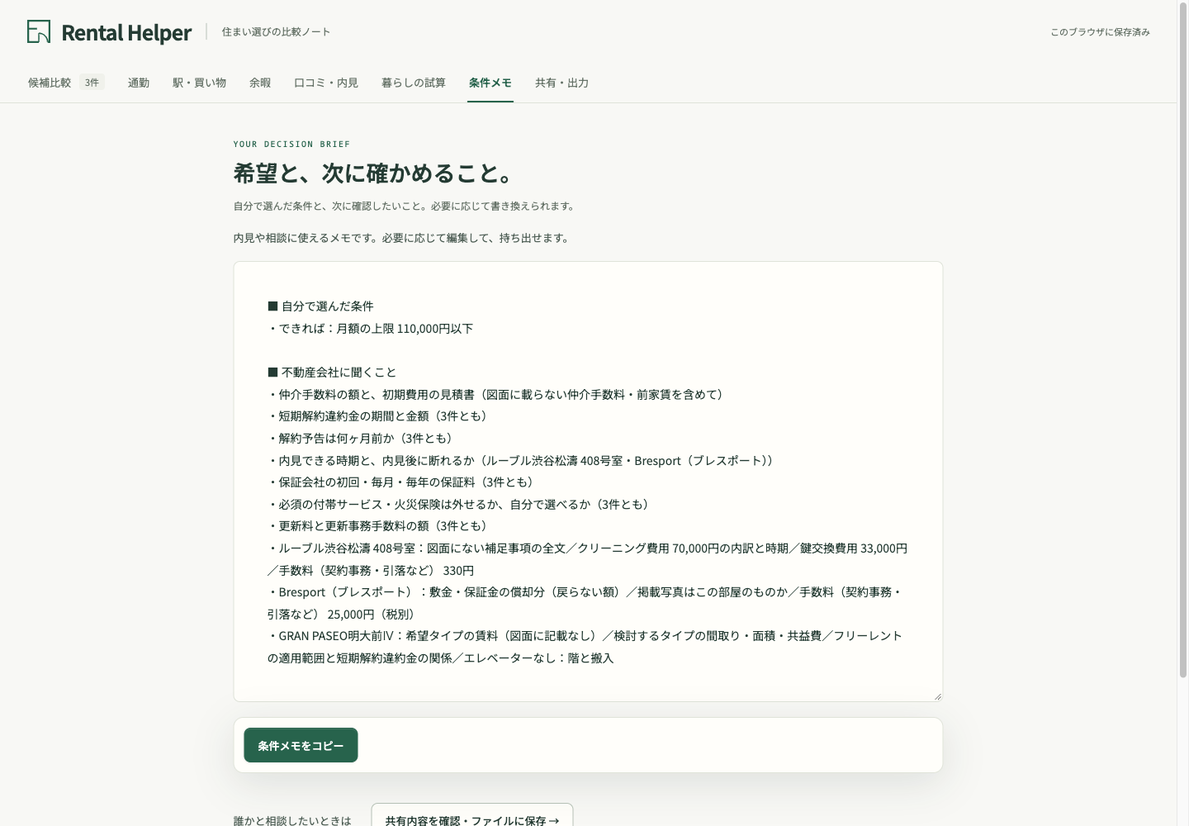
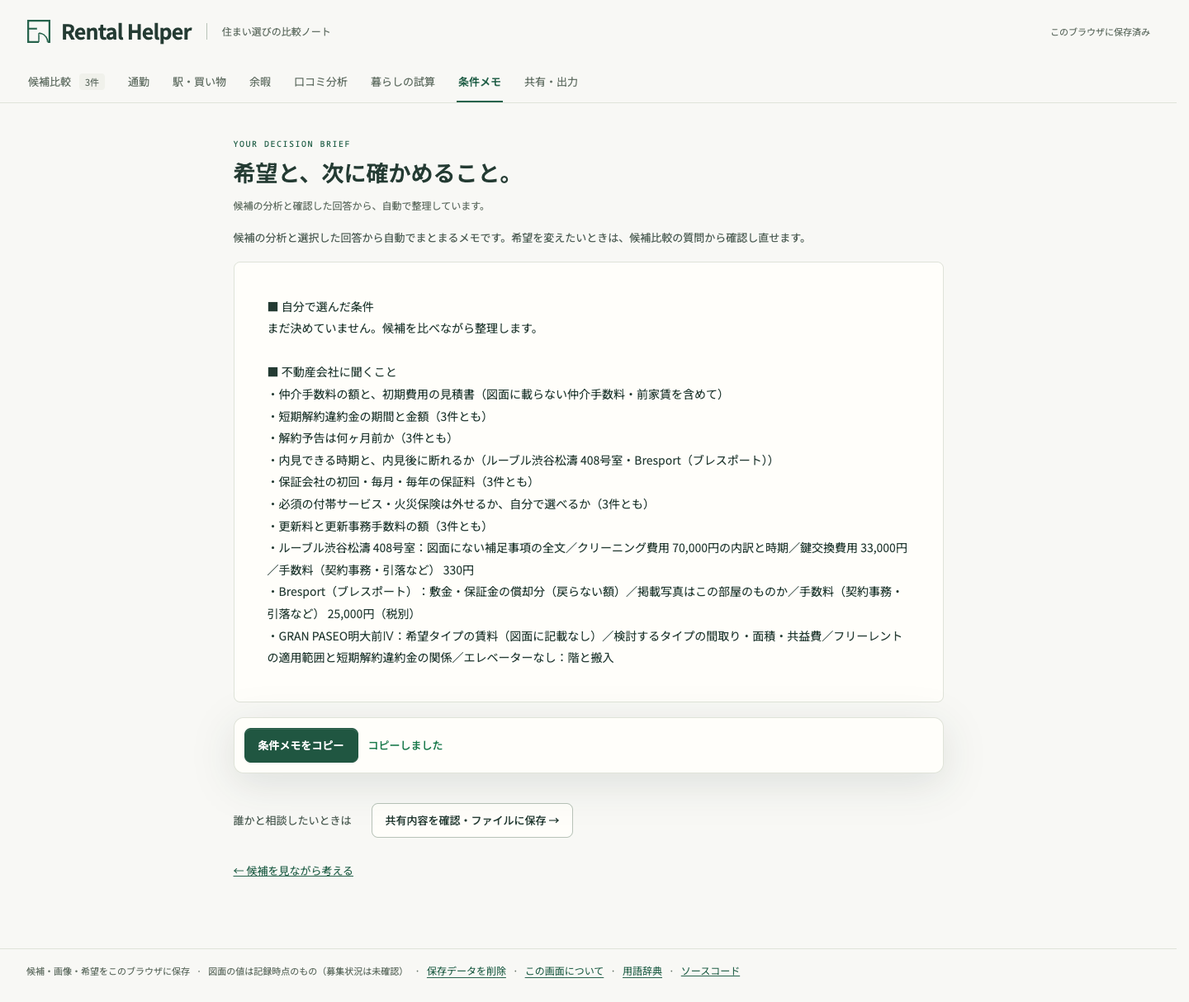
docs(product): align review fallback and choice-based analysis workflow

diff --git a/PRODUCT.md b/PRODUCT.md
@@ -6,7 +6,7 @@ Updated **2026-09-22**. This document separates the implemented local prototype 
 
 Help tenants compare homes they already found, understand the evidence behind their differences, and discover what matters through an interactive conversation. A successful session ends with confirmed priorities, visible compromises, and useful questions for a viewing or agent.
 
-The tenant supplies candidates first. Do not start with a free-text “暮らしの希望” form or a requirements questionnaire. Similarities among candidates are hypotheses, not proof of a preference. OCR supports entry; examining OCR output is not the main experience.
+The tenant supplies candidates first. The app analyzes them and offers grounded choices; it has no personal viewing diary, free-text requirement form, or manually editable decision brief. Do not start with a free-text “暮らしの希望” form or a requirements questionnaire. Similarities among candidates are hypotheses, not proof of a preference. OCR supports entry; examining OCR output is not the main experience.
 
 ## Current progress
 
@@ -25,9 +25,9 @@ The tenant supplies candidates first. Do not start with a free-text “暮らし
 | Commute | Confirm a destination, choose Japan-time arrival/departure, mode and frequency; compare returned alternatives by duration, transfers or walking; confirm intent. | Live Tokyo TRANSIT check returned no routes. Maps fallback is available; Japan transit coverage remains unresolved. |
 | Leisure | Parks/gyms/cafés, dated WALK observations, named regular destination, frequency/importance confirmation. | Max 2/category within 1.5 km by straight-line distance; not exhaustive. Hours and activity suitability require verification. |
 | Scenarios | Change weekly frequency; compare known monthly cost, selected commute objective, outbound-time estimates and accepted leisure interests. | No hidden total score; no invented return journey, fares or data for missing routes. |
-| Reviews | Automatically search public apartment-review sites/posts on entering the review page or changing candidate. Show cited AI summaries, matched building/address, unit scope, excluded sources, viewing questions and separate personal notes. | Public retrieval is not exhaustive; summaries do not prove residency or current conditions. Live GRAN PASEO request returned Gemini busy; successful live review retrieval remains open. |
-| Takeaway/sharing | Editable/copyable memo, HTML download, content preview, optional personal details, 1–7 day SQLite-backed links and owner revocation. | Shared links require a reachable API. Images/eligible chat are local HTML only; provider routes and review text are excluded. Single-instance storage; no accounts. |
-| Persistence | IndexedDB saves candidates, image blobs, answers, preferences, memo edits and eligible conversation history; deletion control included. | Local to browser/origin. Maps observations and conversations reproducing them are temporary; accepted preferences persist. |
+| Reviews | Automatically search public apartment-review sites/posts on entering the review page or changing candidate. Show cited AI summaries, matched building/address, unit scope and explicit nearby references. | Public retrieval is not exhaustive; summaries do not prove residency or current conditions. Live GRAN PASEO request returned Gemini busy; successful live review retrieval remains open. |
+| Takeaway/sharing | Automatically generated, read-only/copyable memo, HTML download, content preview, optional personal details, 1–7 day SQLite-backed links and owner revocation. | Shared links require a reachable API. Images/eligible chat are local HTML only; provider routes and review text are excluded. Single-instance storage; no accounts. |
+| Persistence | IndexedDB saves candidates, image blobs, answers, preferences, eligible conversation history; deletion control included. | Local to browser/origin. Maps observations and conversations reproducing them are temporary; accepted preferences persist. |
 | UI | Eight feature tabs (mobile grouped dropdown), dedicated feature pages with candidate scope and instructions; five comparison concerns, adjacent numeric/AI questions, confirmed-priority pills, and separate memo/sharing views. Mobile pair selection and a question panel; keyboard navigation and reduced motion. | Repository screenshots show the recorded candidate workflow; live services require a configured backend. |
 
 ## Interaction contract
@@ -36,13 +36,13 @@ The tenant supplies candidates first. Do not start with a free-text “暮らし
 2. **Understand differences.** Compare costs, space, access, equipment and contracts. Open a value for its source or calculation.
 3. **Explore one question.** AI uses available evidence; the numeric fallback works without AI. Offer deferral and contextual follow-up.
 4. **Confirm a priority.** A tentative selection or AI proposal is not a requirement. Confirmation updates the comparison and memo; the tenant can reconsider.
-5. **Take the next step.** Leave with an editable brief and questions that would change the decision. Preserve the session locally.
+5. **Take the next step.** Leave with a generated brief and questions that would change the decision. Preserve the session locally.
 
 Work-destination and leisure questions follow candidate comparison. A workplace cannot be inferred from a listing: request the destination when the tenant chooses to examine commuting. Ask for a place/address and relevant schedule, not an upfront lifestyle essay.
 
 ### Workspace behavior
 
-- Top navigation exposes comparison, commute, essentials, leisure, reviews/viewings, scenarios, memo and sharing. The phone dropdown lists all eight pages, grouped by task. Primary feature forms are immediately visible, without an extra disclosure.
+- Top navigation exposes comparison, commute, essentials, leisure, review analysis, scenarios, memo and sharing. The phone dropdown lists all eight pages, grouped by task. Primary feature forms are immediately visible, without an extra disclosure.
 - Hash links, browser Back/Forward and keyboard tab navigation select the same page. Legacy feature anchors resolve to the corresponding page. View changes hide/show existing DOM; they do not remount modules or discard in-memory results. Reload still clears temporary provider data.
 - Candidate scope is shown on feature pages. Essentials checks cover the entire shortlist, including on mobile; the two-candidate selector is local to the comparison table.
 
@@ -85,11 +85,13 @@ Nearby search covers stations, supermarkets and convenience stores within 1.5 km
 
 `POST /api/advise` receives candidate evidence, available Maps observations, confirmed priorities and conversation answers. Insights/questions reference evidence IDs. Proposals require a literal quote from a user answer and explicit acceptance. Failed answers remain available for retry; changed evidence invalidates previous AI output.
 
-Opening **口コミ・内見** or selecting another candidate automatically searches public web reviews using the building name, address, room and source link. It does not send images or personal notes. A bounded 30-minute session cache avoids repeat calls during navigation; manual refresh is available. Errors also wait for explicit retry or cache expiry, rather than triggering an automatic retry loop.
+Opening **口コミ分析** or selecting another candidate automatically searches public web reviews using the building name, address, room and source link. It does not send images or personal notes. A bounded 30-minute session cache avoids repeat calls during navigation; manual refresh is available. Errors also wait for explicit retry or cache expiry, rather than triggering an automatic retry loop.
 
-Only provider-cited text supports the returned summaries. Name/address must match within evidence attributed to the same source. Same-unit, building-level and other-unit reports stay distinct; advertisements, neighborhood information and inaccessible or unmatched pages are excluded from the review list. Results label AI summaries, unknown posting dates and source links. Retrieval dates are not posting dates. Search/identity checks reduce wrong attachments but are not proof of a source's accuracy or an exhaustive crawl. Missing-address candidates cannot receive matched reviews until their identity is established.
+Search order is enforced in code: exact room (when known) → same building → at most three other residential buildings within 300 m, located and distance-checked with Maps. Stop at the first tier with usable reviews. Nearby opinions identify their actual building/address and straight-line distance, and never establish conditions in the target home. A successful empty search leaves the review area blank; provider failures remain errors.
 
-Commute/leisure/review provider content remains in memory. Confirmed intentions and the tenant's own viewing notes persist; a changed candidate identity/address invalidates observations. Web review summaries and source links are temporary and never sent to the advisor or saved in a share. Only generic viewing questions explicitly accepted by the tenant persist.
+Only provider-cited text supports the returned summaries. Name/address must match within evidence attributed to the same source. Same-unit, building-level and other-unit reports stay distinct; advertisements, general neighborhood claims and inaccessible or unmatched pages are excluded from the review list. Results label AI summaries, unknown posting dates and source links. Retrieval dates are not posting dates. Search/identity checks reduce wrong attachments but are not proof of a source's accuracy or an exhaustive crawl. Missing-address candidates cannot receive matched reviews until their identity is established.
+
+Commute/leisure/review provider content remains in memory. Confirmed intentions persist; a changed candidate identity/address invalidates observations. Web review summaries and source links are temporary and never sent to the advisor or saved in a share. Only generic viewing questions explicitly accepted by the tenant persist.
 
 Sharing stores only an allowlisted brief, source links, confirmed intentions and explicitly included personal fields. Read/delete tokens are hashed; expiry is enforced on reads and expired rows are cleaned during access. A separate owner secret authorizes revocation. Links grant access to anyone who possesses them; downloaded copies cannot be revoked.
 
@@ -97,7 +99,7 @@ IndexedDB stores user work. Uploaded images may be saved locally; server-side ex
 
 ## Validation and release state
 
-- **2026-09-22:** `npm test` — 101 frontend + 115 backend tests passed; 2 real-OCR tests skipped. Covers calculations, uncertainty, matching, automatic research, stale-response rejection, proposals, provider errors and storage boundaries.
+- **2026-09-22:** `npm test` — 103 frontend + 126 backend tests passed; 2 real-OCR tests skipped. Covers calculations, uncertainty, matching, automatic research, stale-response rejection, proposals, provider errors and storage boundaries.
 - Browser checks cover desktop/mobile flows, keyboard tabs, mobile pair swapping, question panel focus/resize, contextual AI requests and stale-response rejection with provider stubs, explicit confirmation, memo/image restoration, reference-price details, automatic exact-unit filling with a stubbed provider, and no duplicate lookup after reload.
 - Earlier local live checks confirmed Geocoding, Places and WALK Routes access. A small Gemini request succeeded; full candidate conversations and the latest automatic research check encountered provider busy responses. Full live end-to-end quality remains an open release task.
 - Pages hosts the static app; online research, routes, reviews, advice and shared links need a separately configured API. See the dated [validation record](docs/VALIDATION.md) for actual provider outcomes and the [code tour](docs/CODE_TOUR.md) for module boundaries.

diff --git a/docs/VALIDATION.md b/docs/VALIDATION.md
@@ -4,9 +4,9 @@ This log distinguishes implemented behavior, deterministic checks, and actual pr
 
 | Check | Evidence/result | Interpretation |
 | --- | --- | --- |
-| `npm test` | 101 frontend + 115 backend passed; 2 optional real-OCR tests skipped | Logic and provider contracts pass with stubs; not a model accuracy benchmark. |
-| Browser workflow | Desktop/mobile, destination confirmation, partial commute failure, leisure confirmation, scenario frequency, review-to-question, personal observation, memo, private-share defaults and HTML download | Google/Gemini responses stubbed; no synthetic results are shipped as live observations. |
-| UI polish checks | `npm run smoke:ui` passed: keyboard/focus, Escape/outside dismissal, interrupted native dialogs, reduced motion, open/closed sheet resizing, 320/390/760 px touch layouts, 16 px form inputs, dark mode. `npm run smoke:browser` and 101 frontend tests passed again after UI changes. | Chromium and touch emulation; real phone keyboard/safe-area/gesture checks remain open. [Design decisions](UI_DESIGN.md). |
+| `npm test` | 103 frontend + 126 backend passed; 2 optional real-OCR tests skipped | Logic and provider contracts pass with stubs; not a model accuracy benchmark. |
+| Browser workflow | Desktop/mobile, destination confirmation, partial commute failure, leisure confirmation, scenario frequency, review-to-question, nearby/empty review states, generated memo, share defaults and HTML download | Google/Gemini responses stubbed; no synthetic results are shipped as live observations. |
+| UI polish checks | `npm run smoke:ui` passed: keyboard/focus, Escape/outside dismissal, interrupted native dialogs, reduced motion, open/closed sheet resizing, 320/390/760 px touch layouts, 16 px form inputs, dark mode. `npm run smoke:browser` and 103 frontend tests passed again after UI changes. | Chromium and touch emulation; real phone keyboard/safe-area/gesture checks remain open. [Design decisions](UI_DESIGN.md). |
 | Feature navigation | All eight pages reachable from desktop tabs/mobile dropdown; Back/Forward retains drafts; reload and old deep links select the right page; all pages fit 320/390/760 px. Full stubbed-provider/share workflow passes through the new tabs. | Navigation retains mounted feature instances; it does not revalidate live provider coverage. |
 | Compose configuration | `docker compose ... config --quiet` passed; local Docker daemon was unavailable | API image build is left to CI; no local image-build claim. |
 | GitHub CI for the feature release | [Run 35641505498](https://github.com/SodaShikenn/rental-helper/actions/runs/35641505498) passed frontend, backend and Docker build/Compose jobs | The image built on GitHub; the public API has not been deployed. |
@@ -15,7 +15,8 @@ This log distinguishes implemented behavior, deterministic checks, and actual pr
 | Live Tokyo transit | Public address 東京都渋谷区神南1丁目19-11 → 新宿駅, next-day schedule: **no routes returned** | Transit coverage is unresolved. The UI reports this and links to Maps; it does not substitute walking-to-station or invented routes. |
 | Live leisure | Same public origin, park category: 2 places, 2 walking routes returned | This Places/WALK slice succeeded. It does not establish exhaustive coverage or suitability for running. |
 | Live building review matching | ルーブル渋谷松濤 408号室 / 東京都渋谷区富ヶ谷2丁目20-18: **no confirmed matching place** | Correctly refused to attach another entity's reviews. Live review display for a matched building remains to be validated. |
-| Automatic web reviews | `POST /api/reviews/web` for GRAN PASEO明大前Ⅳ / 東京都世田谷区羽根木2-28-19 returned HTTP 503 `upstream_busy` in 2.5 s | Search failed; no review or empty-success result was fabricated. Successful live retrieval is still unverified. |
+| Automatic web reviews | `POST /api/reviews/web` for GRAN PASEO明大前Ⅳ / 東京都世田谷区羽根木2-28-19 returned HTTP 503 `upstream_busy` in 2.8 s | Search failed; no review or empty-success result was fabricated. Successful live retrieval is still unverified. |
+| Live nearby-reference discovery | GRAN PASEO明大前Ⅳ: Maps returned グランデュール羽根木 (15 m), ライフステージ羽根木 (21 m), アンプリール (21 m) | Straight-line residential reference discovery succeeded; this does not validate their web-review content. |
 | Earlier live Maps | Geocoding, nearby essentials, WALK Routes succeeded | Dated local observations, not a continuous health guarantee. |
 | Earlier live Gemini | Small request succeeded; full research/advice calls encountered provider-busy responses | Full conversational/retrieval quality and availability remain open release checks. |
 
@@ -23,11 +24,12 @@ No claim of tenant-study results, resident identity verification, guaranteed rou
 
 The deployed-UI check also exposed a pre-existing new-link entry crash: the controller evaluated a candidate fingerprint before a candidate existed. A browser regression reproduced the failure before the cached-research guard was corrected; the same scenario passed afterward, including opening/closing the link dialog and restoring trigger focus.
 
-The review update adds deterministic tests for source-bound identity, Roman-numeral building names, room scope, opposing reports, unknown dates, advertisements/inaccessible pages, unsupported summaries, missing citations, provider failures, rate limits and browser cache/stale-response behavior. Both browser suites passed after the update; they stub automatic review requests. The refreshed mobile screenshot shows the real provider-busy state, not invented reviews.
+The review update adds deterministic tests for source-bound identity, Roman-numeral building names, room scope, opposing reports, unknown dates, advertisements/inaccessible pages, unsupported summaries, missing citations, provider failures, rate limits and browser cache/stale-response behavior. Fallback tests additionally verify tier order, early stopping, 300 m distance/type filtering, blank results and removal of legacy manual notes. Both browser suites passed after the update; they stub automatic review requests. The refreshed mobile screenshot shows the real provider-busy state, not invented reviews.
 
 ## Provider contracts consulted
 
 - [Gemini Google Search grounding](https://ai.google.dev/gemini-api/docs/generate-content/google-search) and [URL context](https://ai.google.dev/gemini-api/docs/generate-content/url-context): provider retrieval, citation metadata and search suggestions.
+- [Places housing types](https://developers.google.com/maps/documentation/places/web-service/place-types): residential filters for nearby review references.
 - [Google transit routes](https://developers.google.com/maps/documentation/routes/transit-route): time selection, alternatives and transit preferences; fares may be absent.
 - [Compute Routes reference](https://developers.google.com/maps/documentation/routes/reference/rest/v2/TopLevel/computeRoutes): request and returned route fields.
 - [Places details](https://developers.google.com/maps/documentation/places/web-service/place-details): field masks and place/review responses.

diff --git a/docs/UI_DESIGN.md b/docs/UI_DESIGN.md
@@ -19,11 +19,11 @@ This pass applies [Emil Kowalski's design engineering skill](https://github.com/
 
 ## Feature navigation
 
-The eight destinations are **候補比較 / 通勤 / 駅・買い物 / 余暇 / 口コミ・内見 / 暮らしの試算 / 条件メモ / 共有・出力**. On mobile, a native grouped select replaces the tab row so every feature remains discoverable at 320 px. Each feature page shows candidate scope, its form, three steps and a relevant next destination. Reviews and personal viewing notes have separate headings; memo editing and sharing have separate destinations.
+The eight destinations are **候補比較 / 通勤 / 駅・買い物 / 余暇 / 口コミ分析 / 暮らしの試算 / 条件メモ / 共有・出力**. On mobile, a native grouped select replaces the tab row so every feature remains discoverable at 320 px. Each feature page shows candidate scope, its form, three steps and a relevant next destination. The review page is automatic analysis; the decision brief is generated and read-only. There are no manual diary or free-text requirement controls.
 
 Navigation toggles existing panels, so a draft or retrieved result survives switching. It never changes a confirmed preference. The reviews page starts an automatic public-web search when opened or when its candidate changes; a 30-minute session cache prevents repeated calls while navigating. Other tabs retain their explicit provider actions. Browser refresh restores the route but follows the existing rules for temporary Maps content. The comparison's mobile pair picker does not limit the standalone essentials page.
 
-<img src="images/navigation-mobile.png" width="390" alt="Mobile reviews page with the feature selector, candidate scope, automatic web-review search and separate viewing notes." />
+<img src="images/navigation-mobile.png" width="390" alt="Mobile reviews page with the feature selector, candidate scope and automatic review search order." />
 
 ## Ownership
 
@@ -56,6 +56,8 @@ Browser emulation is not a physical-device sign-off. The soft keyboard, actual i
 
 ## Automatic review discovery
 
-The candidate selector is the entry point: choosing a home starts research, with a visible status and a manual refresh button. Results show short, source-linked AI summaries with building/unit scope and a posting date only when available. Unmatched buildings, listing copy and inaccessible pages are in a separate disclosure. No overall star score is inferred. Keyword-linked viewing questions require an explicit click to enter the brief; personal dated notes have their own section.
+The candidate selector is the entry point: choosing a home starts research, with a visible status and a manual refresh button. Results show short, source-linked AI summaries with building/unit scope and a posting date only when available. Unmatched buildings, listing copy and inaccessible pages are in a separate disclosure. No overall star score is inferred. Keyword-linked questions require an explicit click to enter the generated brief. The brief is read-only; preferences are refined through candidate-based choices rather than typed requirements.
 
-Provider failure, a successful search without usable reviews, and a pending search have different messages. A direct web-search link remains available. Error/results are cached only in memory; changing a candidate cancels and ignores old responses. The automated browser checks stub review retrieval so opening the new page never spends provider quota during those tests.
+A successful search without usable reviews leaves the evidence area blank with a small completed status. Provider failure and pending search remain explicit states. A direct web-search link remains available. Error/results are cached only in memory; changing a candidate cancels and ignores old responses. The automated browser checks stub review retrieval so opening the new page never spends provider quota during those tests.
+
+The retrieval ladder is visible beside the candidate selector: **この部屋 → 同じ建物 → 近隣300m以内**. Nearby summaries have a distinct reference notice, the actual building name/address, a Maps location link and a straight-line distance. They cannot be read as reports about the target apartment. Search stops as soon as a closer evidence tier has usable reviews.

diff --git a/docs/CODE_TOUR.md b/docs/CODE_TOUR.md
@@ -24,7 +24,7 @@ The live Tokyo transit test returned no routes. The code retains that result and
 | Commute | Same destination/time, route alternatives, confirmed intent | [commute](../web/apps/commute/) | [commute](../server/apps/commute/) | [web](../web/tests/apps/commute/) / [API](../server/tests/apps/commute/) |
 | Leisure | Actual places → frequency/importance → accepted preference | [leisure](../web/apps/leisure/) | [leisure](../server/apps/leisure/) | [web](../web/tests/apps/leisure/) / [API](../server/tests/apps/leisure/) |
 | Scenarios | Explain known costs and route tradeoffs without a total score | [scenarios](../web/apps/scenarios/) | Pure client calculation | [web](../web/tests/apps/scenarios/) |
-| Reviews | Automatically find web reviews, verify source identity/scope, keep viewing observations separate | [reviews](../web/apps/reviews/) | [reviews](../server/apps/reviews/) | [web](../web/tests/apps/reviews/) / [API](../server/tests/apps/reviews/) |
+| Reviews | Automatically find web reviews, verify source identity/scope, expand from unit to building to verified nearby references | [reviews](../web/apps/reviews/) | [reviews](../server/apps/reviews/) | [web](../web/tests/apps/reviews/) / [API](../server/tests/apps/reviews/) |
 | Sharing | Preview/export; expiring links with owner revocation | [sharing](../web/apps/sharing/) | [sharing](../server/apps/sharing/) | [web](../web/tests/apps/sharing/) / [API](../server/tests/apps/sharing/) |
 | Existing foundation | Intake, provenance, price research, numeric/AI discovery | [apps](../web/apps/) | [apps](../server/apps/) | [web](../web/tests/) / [API](../server/tests/) |
 
@@ -76,8 +76,8 @@ Create its frontend controller/pure service/view and API router/model/service; r
 
 1. [Session controller](../web/apps/reviews/research.js) sends identity fields only, caches per candidate for 30 minutes, and aborts/ignores stale requests. [Controller tests](../web/tests/apps/reviews/research.test.js) cover switching, expiry and failure retry.
 2. [Review endpoint](../server/apps/reviews/__init__.py) and [bounded models](../server/apps/reviews/web_models.py) validate `POST /api/reviews/web` under the existing rate limit.
-3. [Web research service](../server/apps/reviews/web_research.py) searches with Google grounding/URL context, then maps only citation-supported text. Its pure assembly functions reject mismatched identities and invented summary text and preserve room scope. [Boundary tests](../server/tests/apps/reviews/test_web_reviews.py) exercise those checks.
+3. [Web research service](../server/apps/reviews/web_research.py) searches with Google grounding/URL context, then maps only citation-supported text. Its pure assembly functions reject mismatched identities and invented summary text and preserve room scope. [Fallback orchestration](../server/apps/reviews/fallback.py) enforces the evidence order; [nearby discovery](../server/apps/reviews/nearby.py) independently uses Maps geometry, housing types and a 300 m bound. [Boundary tests](../server/tests/apps/reviews/test_web_reviews.py) exercise those checks.
 4. [Shared Gemini transport](../server/providers/gemini.py), [citation parsing](../server/providers/grounded_search.py) and [public URL validation](../server/providers/web_urls.py) are provider infrastructure shared with listing research/advice, not imports from another feature's business logic.
-5. [Views](../web/apps/reviews/views.js) escape text, label summaries/scope and keep excluded pages separate. Google search suggestions render in a sandboxed iframe. Only explicitly accepted generic questions and the tenant's own notes enter persistent state.
+5. [Views](../web/apps/reviews/views.js) escape text, label summaries/scope and keep excluded pages separate. Google search suggestions render in a sandboxed iframe. Only explicitly accepted generic questions enter persistent state. Legacy handwritten notes and memo overrides are filtered out when restoring a session.
 
 The older confirmed-place Google Maps review endpoints remain available as a separate backend capability. They are not the review page's default source. Grounding is attribution to provider-reported evidence, not proof of every claim or review author's residency.

diff --git a/ROADMAP.md b/ROADMAP.md
@@ -8,7 +8,7 @@ Updated **2026-09-22**. Checked items describe implemented, tested behavior. Ope
 | R1 — commute | Destination confirmation, shared schedule, returned alternatives, explicit intent | Usable Japan public-transit coverage; live three-candidate journey |
 | R2 — leisure | Real nearby options, regular destination, frequency/importance confirmation | Broader real-world hours/route evaluation |
 | R3 — scenarios | Frequency, cost, route objective, leisure evidence, missing-value explanations | Evaluate competing objectives with tenants |
-| R4 — reports | Strict building matching, attributed posts, viewing questions, own observations | Real matched-building display; verified resident-source coverage |
+| R4 — reports | Room → building → nearby fallback, cited analysis and evidence-linked choices | Real matched-building display; verified resident-source coverage |
 | R5 — sharing | Preview, HTML, expiring/revocable SQLite links | Public HTTPS API and durable-host verification |
 
 ## R0 — validate and release the current prototype
@@ -57,7 +57,8 @@ Updated **2026-09-22**. Checked items describe implemented, tested behavior. Ope
 - [x] Automatically search public apartment-review sites and posts when opening reviews or changing the selected candidate; manual refresh and a bounded session cache.
 - [x] Use provider-grounded citations, match name/address within the same source, distinguish same-unit/building/other-unit scope, and separate ads/unreadable/unmatched pages.
 - [x] Label AI summaries and unknown posting dates; never infer residency, an overall rating, or absence of problems from missing reviews.
-- [x] Preserve opposing reports and offer explicit actions to add generic viewing questions. Keep personal dated notes separate and persist them for optional sharing.
+- [x] Preserve opposing reports and offer evidence-linked choices. No personal diary, free-text requirement entry or manually editable memo.
+- [x] Enforce room → building → nearby fallback; use Maps to locate up to three residential references within 300 m, label distance and identity, leave absent review evidence blank.
 - [x] Retain the optional Google Places review endpoints with building/proximity checks and explicit confirmation; the default UI now uses public-web research.
 - [ ] Validate successful live web-review retrieval and source coverage. GRAN PASEO明大前Ⅳ returned Gemini `upstream_busy` on 2026-09-22; deterministic tests do not establish coverage.
 - [ ] Evaluate permitted resident-specific sources if stronger author/residency verification is needed; public review authors remain unverified.
@@ -65,7 +66,7 @@ Updated **2026-09-22**. Checked items describe implemented, tested behavior. Ope
 ## R5 — shareable comparisons and decision brief
 
 - [x] Preview an allowlisted brief with known listing values, source links, confirmed priorities and unanswered questions.
-- [x] Keep personal observations and the user-entered destination opt-in. Images and eligible conversation history are optional local HTML attachments.
+- [x] Keep the user-entered destination opt-in; retired personal notes are excluded. Images and eligible conversation history are optional local HTML attachments.
 - [x] Exclude raw Maps observations/reviews from persisted shares and export; Maps-derived conversations cannot be attached.
 - [x] Implement 1–7 day links, separate owner revocation secrets, hashed tokens, read-time expiry, capacity limits and a sharing kill switch.
 - [x] Verify backend create/read/revoke, expiry, forbidden fields, token logging boundaries and browser privacy defaults.

diff --git a/docs/DEVELOPMENT.md b/docs/DEVELOPMENT.md
@@ -114,7 +114,7 @@ Add frontend features through `initApp(app)` in `web/app.js`; add API routers th
 | `POST /api/destinations` | Search places for explicit destination confirmation. |
 | `POST /api/commutes` | Up to 6 candidates, confirmed destination ID, aware schedule, mode/objective; independent journey results. |
 | `POST /api/leisure` | Nearby categories or a confirmed named destination; dated places and WALK routes. |
-| `POST /api/reviews/web` | Automatic public-web search; Gemini grounded summaries, source identity and unit scope. Requires Gemini + `RESEARCH_ENABLED`; no Maps key required. |
+| `POST /api/reviews/web` | Automatic room → building → nearby web search; grounded summaries and explicit source identity/distance. Requires Gemini + `RESEARCH_ENABLED`; Maps is additionally required if the room/building tiers are empty and nearby fallback is needed. |
 | `POST /api/reviews/search` | Match building name and origin against returned places. |
 | `POST /api/reviews` | Recheck confirmed building identity, then return attributed relevance-ordered posts. |
 | `POST /api/shares` | Store an allowlisted brief for 1–7 days; return separate read and deletion secrets. |
@@ -140,7 +140,7 @@ npm run test:server
 git diff --check
 ```
 
-The default test suite uses provider stubs and does not require live API keys. Snapshot on **2026-09-22:** 101 frontend + 115 backend passed, 2 real-OCR tests skipped. Enable optional real OCR with `RUN_OCR_TESTS=1 npm run test:server`; it requires OCR dependencies/models. Provider reliability must be tested separately.
+The default test suite uses provider stubs and does not require live API keys. Snapshot on **2026-09-22:** 103 frontend + 126 backend passed, 2 real-OCR tests skipped. Enable optional real OCR with `RUN_OCR_TESTS=1 npm run test:server`; it requires OCR dependencies/models. Provider reliability must be tested separately.
 
 With both development servers running, `npm run smoke:browser` uses a separate Playwright CLI session. Provider calls are stubbed; sharing uses the real local backend and cleans up its link. It downloads a test HTML brief under ignored `output/playwright/`. The first run downloads the CLI/browser if needed.
 
@@ -173,3 +173,5 @@ The API defaults to `server/data/shares.sqlite3`. The directory is excluded from
 Tokens carry read access; the owner has a separate delete secret. SQLite stores their SHA-256 hashes, enforces expiry, deletes expired rows during access and limits active documents to 1,000. Expiry uses server time. This is a single-instance prototype; multiple replicas need a shared repository and distributed rate limiting. Revocation cannot remove copies already downloaded by recipients.
 
 Share pages use `share.html#token`, no indexing and no referrer. The reader uses the deployment's configured API URL. A link to localhost is only usable on that machine; a public link needs both a public frontend and reachable HTTPS API. No public backend was provisioned by a Git push.
+
+Review fallback has a 180 s overall backend deadline and a 190 s browser timeout. Each of the at most three search stages makes a grounded search call and, when citations exist, a mapping call. Nearby discovery uses a precise candidate geocode and residential Nearby Search; only the nearest three eligible returned buildings within 300 m are researched. This is bounded discovery, not exhaustive coverage. Failures stop expansion and stay errors. Legacy share-note fields are accepted for compatibility but excluded from newly stored output.
